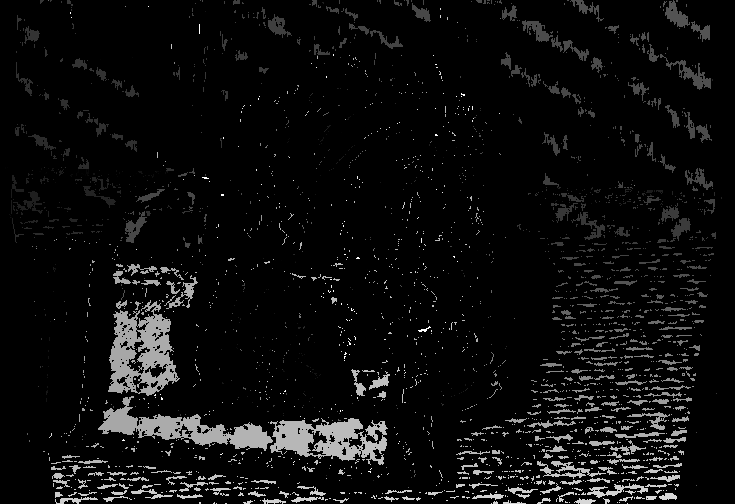
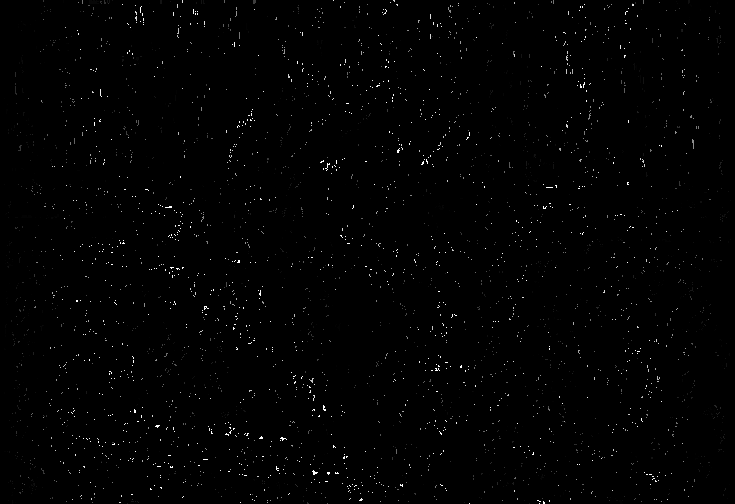
work on zncc

diff --git a/src/phase2.c b/src/phase2.c
@@ -6,33 +6,38 @@
 
 #define MAX_DISPARITY 65
 #define MIN_DISPARITY 0
-#define THRESHOLD 32
+#define THRESHOLD 2
 #define B 9
 #define NEIGHBORHOOD_SIZE 256
 
-unsigned char* calcZNCC(unsigned char *left, unsigned char *right, unsigned short width, 
-    unsigned short height, int min_d, int max_d)
+unsigned char* calcZNCC(unsigned char *left, unsigned char *right, int width, 
+    int height, int min_d, int max_d)
 {
     unsigned char* disparity_image = calloc(width*height, sizeof(unsigned char));
 
-    for (size_t j = 0; j < height; j++)
+    for (int j = 0; j < height; j++)
     {
-        for (size_t i = 0; i < width; i++)
+        for (int i = 0; i < width; i++)
         {
-            int best_disparity = 0;
+            unsigned best_disparity = 0;
             double best_zncc = 0.0;
-            for (int d = min_d; d < max_d; d++)
+            for (int d = min_d; d <= max_d; d++)
             {
                 unsigned window_avg_l = 0;
                 unsigned window_avg_r = 0;
-                for(int y = -(B-1)/2; y < (B-1)/2; y++)
+                for(int y = -(B)/2; y <= (B)/2; y++)
                 {
-                    for(int x = -(B-1)/2; x < (B-1)/2; x++)
+                    for(int x = -(B)/2; x <= (B)/2; x++)
                     {
-                        if(!((i + x) < 0 || (i + x) >= width || (j + y) < 0 || (j + y) >= height))
+                        if(((i + x) < 0 || (i + x) >= width || (j + y) < 0 || (j + y) >= height) 
+                            || (i+x-d < 0) || (i+x-d >= width))
+                        {
+                            continue;
+                        }
+                        else
                         {
                             window_avg_l += left[(j + y) * width + (i + x)];
-                            window_avg_r += right[(j + y) * width + (i + x)];
+                            window_avg_r += right[(j + y) * width + (i + x - d)];
                         }
                     }
                 }
@@ -46,28 +51,28 @@ unsigned char* calcZNCC(unsigned char *left, unsigned char *right, unsigned shor
                 double zncc_val = 0.0;
                 unsigned left_std = 0;
                 unsigned right_std = 0;
-                for(int y = -(B-1)/2; y < (B-1)/2; y++)
+                for(int y = -(B)/2; y <= (B)/2; y++)
                 {
-                    for(int x = -(B-1)/2; x < (B-1)/2; x++)
+                    for(int x = -(B)/2; x <= (B)/2; x++)
                     {
-                        if( !((i + x) < 0) && !((i + x) >= width) && !((j + y) < 0) 
-                            && !((j + y) >= height) && !(i+x-d < 0) && !(i+x-d >= width) )
+                        if( ((i + x) < 0) || ((i + x) >= width) || ((j + y) < 0) 
+                            || ((j + y) >= height) || (i+x-d < 0) || (i+x-d >= width) )
                         {
                             
-                            right_std = right[(j + y) * width + (i + x - d)] - window_avg_r;
-                        }
-                        else
-                        {
                             right_std = 0;
                         }
-                        if(!((i + x) < 0 || (i + x) >= width || (j + y) < 0 || (j + y) >= height))
+                        else
+                        {
+                            right_std = right[(j + y) * width + (i + x - d)] - window_avg_r;
+                        }
+                        if(((i + x) < 0 || (i + x) >= width || (j + y) < 0 || (j + y) >= height))
                         {
                             //printf("%d\n", (j + y) * width + (i + x));
-                            left_std = (left[(j + y) * width + (i + x)] - window_avg_l);
+                            left_std = 0;
                         }
                         else
                         {
-                            left_std = 0;
+                            left_std = (left[(j + y) * width + (i + x)] - window_avg_l);
                         }
                         numerator += left_std * right_std;
                         denominator_l += left_std * left_std;
@@ -82,7 +87,7 @@ unsigned char* calcZNCC(unsigned char *left, unsigned char *right, unsigned shor
                     best_zncc = zncc_val;
                 }
             }
-            disparity_image[j * width + i] = abs(best_disparity);
+            disparity_image[j * width + i] = (unsigned char)abs(best_disparity);
         }
     }
     return disparity_image;
@@ -105,13 +110,13 @@ unsigned char* crossCheck(unsigned char *disp_map_1, unsigned char *disp_map_2,
 	return result_map;
 }
 
-unsigned char* occlusionFill(unsigned char* disp_map, unsigned width, unsigned height, 
+unsigned char* occlusionFill(unsigned char* disp_map, int width, int height, 
     unsigned neighborhood_size) {
 
 	unsigned char* result = malloc(width*height);
 
-    for (size_t j = 0; j < height; j++) {
-        for (size_t i = 0; i < width; i++) {
+    for (int j = 0; j < height; j++) {
+        for (int i = 0; i < width; i++) {
 			result[j * width + i] = disp_map[j * width + i];
 
             if(disp_map[j * width + i] == 0) {
@@ -120,7 +125,7 @@ unsigned char* occlusionFill(unsigned char* disp_map, unsigned width, unsigned h
 				for (int search_area = 1; search_area < ((int)neighborhood_size/2); search_area++) {
                     
 					// Sum all the intensities in search area around pixel
-					size_t sum = 0;
+					int sum = 0;
 					for(int y = -search_area; y < search_area; y++) {
 						for(int x = -search_area; x < search_area; x++) {
                             
@@ -175,8 +180,8 @@ int main(int argc, char **argv)
         return EXIT_FAILURE;
     }
 
-    const char *inputimg_r = argv[1];
-    const char *inputimg_l = argv[2];
+    const char *inputimg_l = argv[1];
+    const char *inputimg_r = argv[2];
     // const char *outputimg = argv[3];
 
     unsigned char *image_r = 0;
@@ -207,14 +212,14 @@ int main(int argc, char **argv)
         resizedHeight, -MAX_DISPARITY, MIN_DISPARITY);
 
     
-
+    
     normalize(disparityLR, resizedWidth, resizedHeight);
     normalize(disparityRL, resizedWidth, resizedHeight);
     // normalize(disparityCC, resizedWidth, resizedHeight);    
     
     //disparityOcclusion = occlusionFill()
     disparityCC = crossCheck(disparityLR, disparityRL, resizedWidth, resizedHeight, 2);
-    normalize(disparityCC, resizedWidth, resizedHeight);
+    //normalize(disparityCC, resizedWidth, resizedHeight);
     disparityOF = occlusionFill(disparityCC, resizedWidth, resizedHeight, NEIGHBORHOOD_SIZE);
 
     lodepng_encode_file("resized_left.png", disparityRL, resizedWidth, resizedHeight, LCT_GREY, 8);
